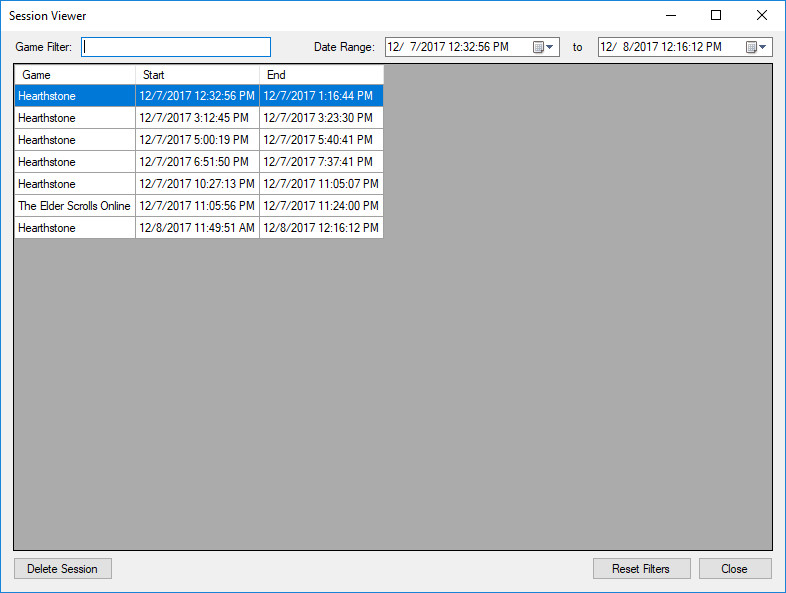
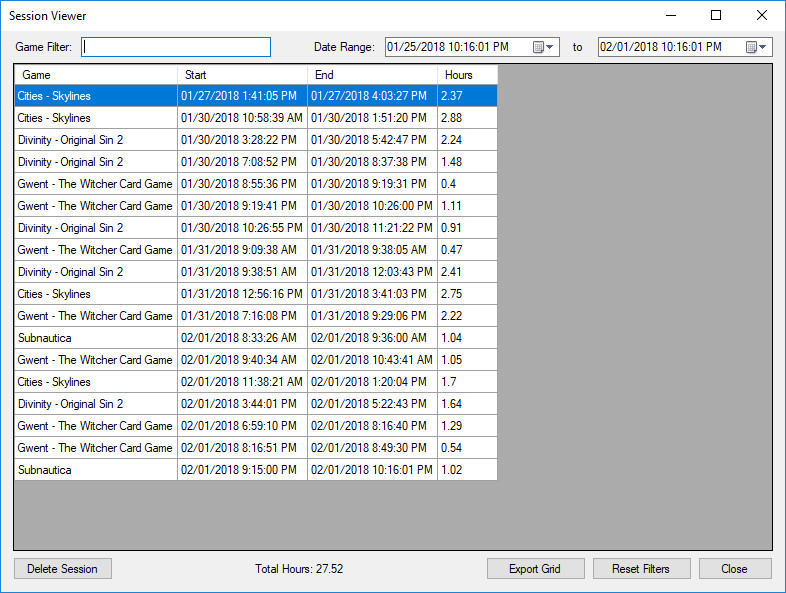
Updates for v107

diff --git a/versionhistory.html b/versionhistory.html
@@ -33,7 +33,40 @@
             Archived Version History
           </div>
           <div cass="pageSectionContent">
-            <h3 class="notop">1.0.5</h3>
+            <h3 class="notop">1.0.6</h3>
+            <ul>
+              <li>All Platforms:
+                <ul>
+                  <li>Session Viewer Updates
+                    <ul>
+                      <li>The viewer now defaults to show seven days from the last recorded session, instead of all sessions.</li>
+                      <li>Fixed issues with date sorting, it will now sort correctly regardless of format.</li>
+                      <li>The recording of short sessions can now be ignored using a setting.</li>
+                    </ul></li>                  
+                  <li>Changed setting "Backup only when session time exceeds XX minutes" to "Ignore sessions shorter than XX minutes".
+                    <ul>
+                      <li>This setting is now used to ignore recording sessions times (when enabled) in addition to ignoring a backup.</li>
+                      <li>This setting has been moved to the "General" section.</li>
+                      <li>This change requires no update from the user, it will function exactly as it did before.</li>
+                    </ul></li>
+                </ul>
+              </li>                              
+              <li>Windows Only:
+                <ul>
+                  <li>A warning is now displayed if the "Start with Windows" setting is enabled while GBM is running as administrator.</li>
+                  <li>GBM currently will not "Start with Windows" as administrator when this setting is enabled.  Please follow these <a href="http://mikemaximus.github.io/gbm-web/gbm_task_scheduler.html">instructions</a> for a work-around.</li>
+                </ul>
+              </li>
+              
+              <li>Linux Only:
+                  <ul> 
+                    <li>Enhanced makefile and added start script for Linux installations (basxto)</li>
+                    <li>GBM is now available on the archlinux user repository. (basxto)</li>
+                    <li>GBM is now available as a deb package for installation. (basxto)</li>
+                  </ul>
+              </li>
+            </ul>              
+            <h3>1.0.5</h3>
             <ul>
               <li>All Platforms:
                 <ul>

diff --git a/manual.html b/manual.html
@@ -30,10 +30,10 @@
       <div id="leftcontent">
         <div class="pageSection">
           <div class="pageSectionHeader">
-            Game Backup Monitor v1.0.6 Manual
+            Game Backup Monitor v1.0.7 Manual
           </div>
           <div class="pageSectionContent">
-            <h3 class="notop">Updated December 29, 2017</h3>
+            <h3 class="notop">Updated February 2, 2018</h3>
             <h3>Disclaimer:</h3>
             <p>This manual may contain information about features not available in the current stable release.</p>
             <p>If you are having a specific problem, please check the <a href="https://github.com/MikeMaximus/gbm/issues">issues</a> list.</p>
@@ -398,6 +398,11 @@
             <p>The date filter includes sessions that started AND ended in the desired range.</p>
             <p>You may delete one or more sessions by selecting them and using the "Delete Session" button.</p>
             <p><b>Important Note:</b>  Deleting a game configuration from the Game Manager will also delete all session data for that game.</p>
+            <p>You may export the data currently displayed on the grid by clicking the "Export Grid" button.</p>
+            <img class="manual" src="images/manual/manual_20.jpg" width="286" height="293" alt="Tools" /><br />            
+            <p>You may choose between CSV (Comma Seperated Values) and XML formats.</p>
+            <p>You may choose to export dates using the Unix timestamp format or your current locale settings.</p>
+            <p>The CSV format can be exported with or without headers.</p>
           </div>
           <div class="pageSectionFooter">
             <a href="#toc">Back to Contents</a>

diff --git a/index.html b/index.html
@@ -45,13 +45,13 @@
           <div class="pageSectionContent">
             <h3 class="notop">Important News</h3>
             <ul>                  
-              <li><a href="https://github.com/MikeMaximus/gbm/releases/tag/v1.0.6">v1.0.6</a> has been released!</li>           
+              <li><a href="https://github.com/MikeMaximus/gbm/releases/tag/v1.0.7">v1.0.7</a> has been released!</li>           
             </ul>
             <h3>Notices</h3>
             <ul>
-                <li>The <a href="manual.html">manual</a> has been updated to include features added in v1.0.6.</li>
+                <li>The <a href="manual.html">manual</a> has been updated to include features added in v1.0.7.</li>
             </ul>
-            <h3>Updated January 15th, 2017</h3>
+            <h3>Updated February 2nd, 2017</h3>
           </div>
         </div>
         <div class="pageSection">
